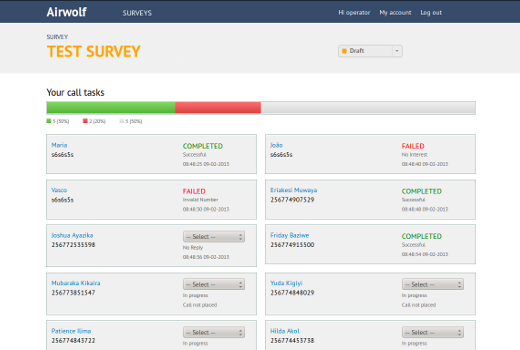
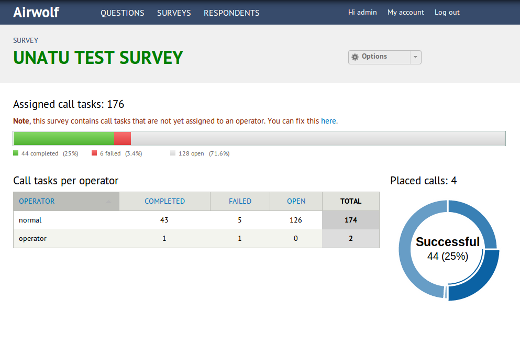
Change Airwolf blog post and some images

diff --git a/_posts/notes/2013-03-14-data-collection-with-airwolf.md b/_posts/notes/2013-03-14-data-collection-with-airwolf.md
@@ -6,12 +6,26 @@ tags: airwolf drupal mongodb
 
 user: olafveerman
 ---
-Recently we've been working with [Research Africa](http://www.researchafrica.com) on Airwolf, a platform that provides them and [Text to Change](http://www.texttochange.com) with a tool to manage their data collection process, from survey definition to final visualization. Both organizations go through exciting phases of growth and the need to manage their data with a long term vision became ever more evident.
+Recently we've been working with [Research Africa](http://www.researchafrica.com) on Airwolf, a platform that provides them and [Text to Change](http://www.texttochange.com) with a tool to manage their data collection process: from survey definition to final visualization. Both organizations go through exciting phases of growth and the need to manage their data with the long term in mind was getting bigger.
 
 <img src="/images/notes/collection-process-aw.png" class="eleven columns border alpha omega" alt="Data collection with Airwolf" />
   
-
-From the beginning, it was clear that we would not build every single component from scratch. On the data collection side, there are mature tools available like OpenDataKit, Formhub or Vusion, TTC's own sms system, while on the visualization side the options are even more diverse.
+From the beginning, it was clear that we would not build every single component from scratch. On the data collection side, there are mature tools available like [OpenDataKit](http://www.opendatakit.org), [Formhub](http://www.formhub.org) or [Vusion](http://www.texttochange.org/vusion), TTC's own sms system, while on the visualization side the options are even more diverse.
 Airwolf is therefore built with interoperability in mind. It is agnostic when it comes to data collection tool used, basically any data provided in consistently formatted CSVs can be imported into the system. New visualization tools can be integrated to allow both organizations to respond to new developments quickly and stay current, without requiring a complete re-factor of the system.
+
+##Question repository
+The question repository provides RA with an overview of all the questions ever asked in a survey. This allows them to benchmark results among different surveys, but also speed up the survey definition process by re-using existing questions.
+
+##Data importer
+Airwolf currently imports data from CSV files and does some basic validation to ensure the data integrity, for example by checking for duplicate entries, 
+or whether the data is imported into right survey to begin with.
+
+##Report builder
+The report builder allows Research Africa to produce custom reports from the survey data collected, in both online format, as well as PDF.
+
+##Call center
+<img src="/images/notes/aw-ccdashboard.png" class="right" alt="Data collection with Airwolf" />
+Research Africa has its own call center that can be used to collect data for their projects. Airwolf provides basic tools to manage the call center operation and detailed reports on the progress throughout the project.
+
 
 The roadmap for Airwolf 2.0 is shaping up and we are excited to work on features such as improved benchmarking capabilities, improved support for Openrosa Xforms and a better data collection experience for the call center agents.
